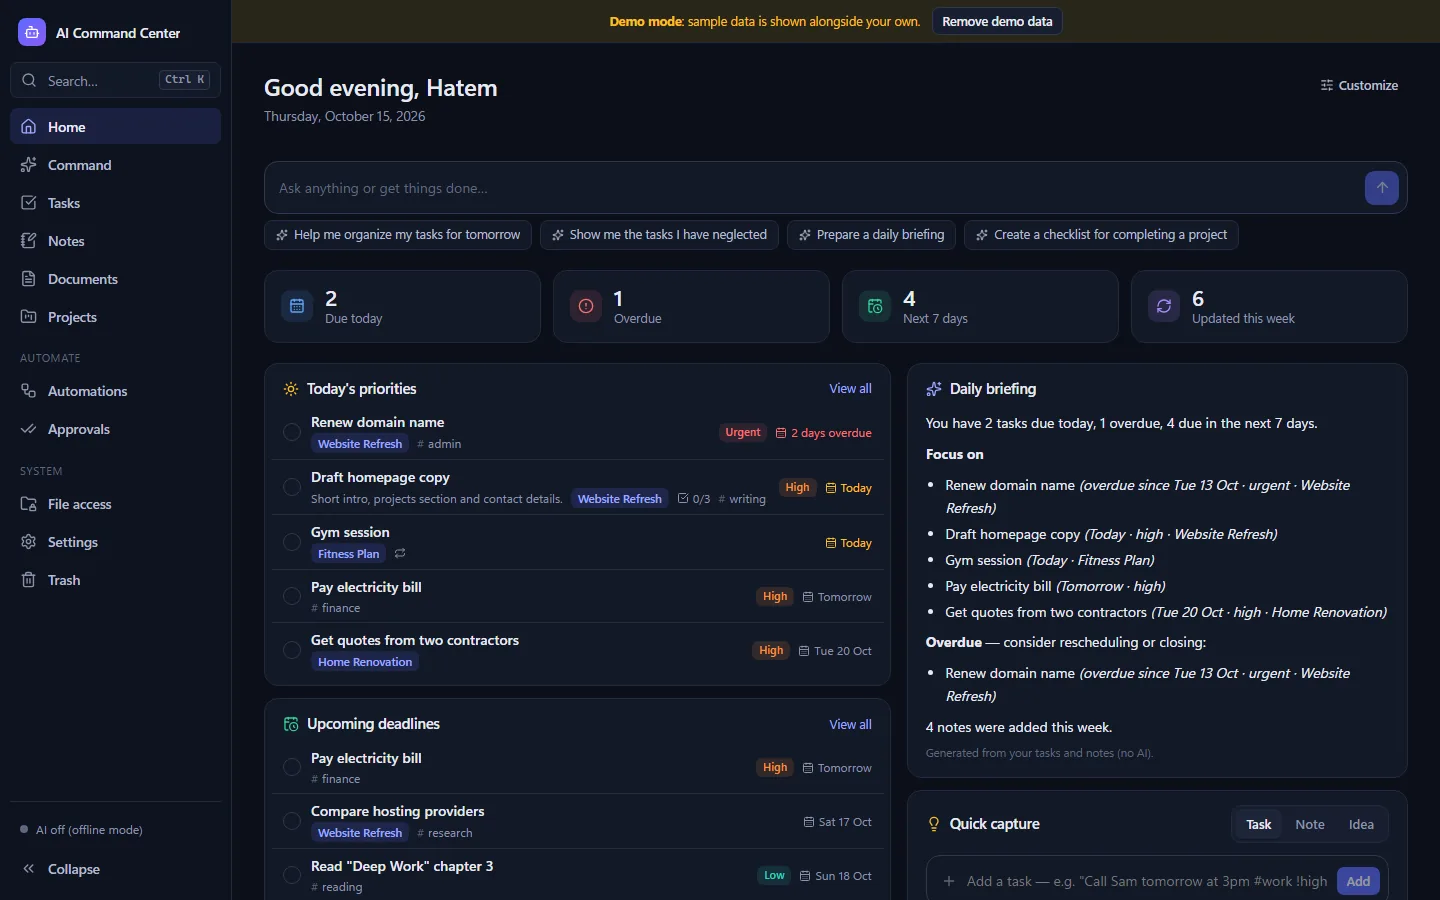
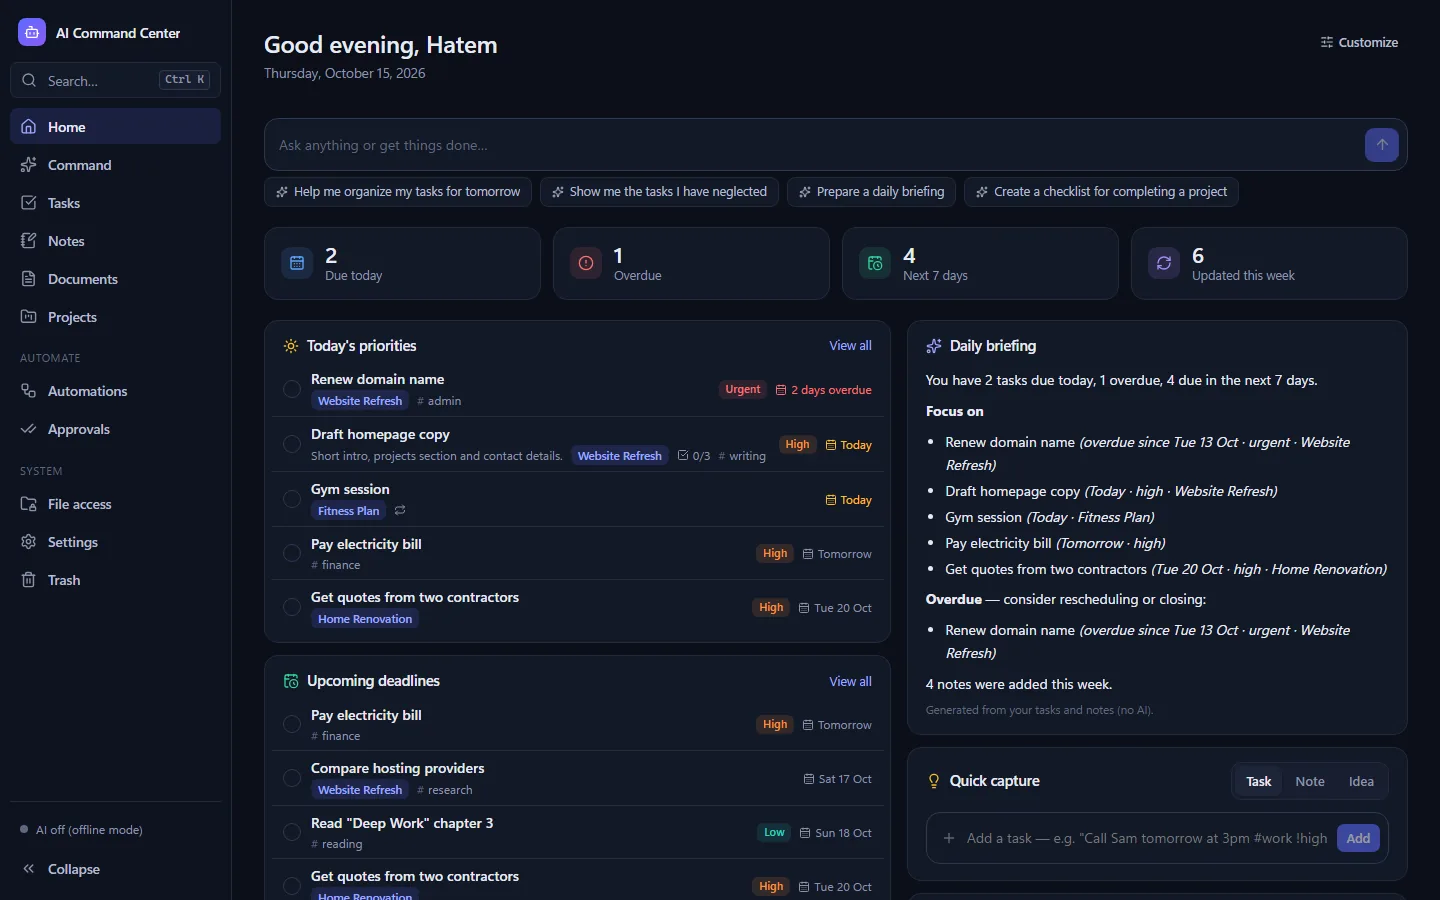
AI Command Center: clean screenshots with sample data

diff --git a/work/index.html b/work/index.html
@@ -163,12 +163,12 @@
     <article class="mc" id="command-center" aria-labelledby="aicc-title">
       <div class="mc-media">
         <figure class="browser">
-          <div class="bar"><i></i><i></i><i></i><span>Home, with demo data</span></div>
+          <div class="bar"><i></i><i></i><i></i><span>Home</span></div>
           <img src="/assets/img/aicc-home.webp" alt="AI Command Center home screen: today's priorities, a daily briefing and quick capture" width="1440" height="900" loading="lazy">
         </figure>
         <div class="mc-thumbs">
           <figure class="browser"><img src="/assets/img/aicc-project.webp" alt="A project page showing progress, next actions and blockers" width="1440" height="900" loading="lazy"></figure>
-          <figure class="browser"><img src="/assets/img/aicc-command.webp" alt="The AI assistant's chat screen with suggested requests" width="1440" height="900" loading="lazy"></figure>
+          <figure class="browser"><img src="/assets/img/aicc-tasks.webp" alt="The Tasks page with today's and overdue tasks" width="1440" height="900" loading="lazy"></figure>
         </div>
       </div>
       <div class="mc-copy">

diff --git a/src/parts/more.html b/src/parts/more.html
@@ -6,12 +6,12 @@
     <article class="mc" id="command-center" aria-labelledby="aicc-title">
       <div class="mc-media">
         <figure class="browser">
-          <div class="bar"><i></i><i></i><i></i><span>Home, with demo data</span></div>
+          <div class="bar"><i></i><i></i><i></i><span>Home</span></div>
           <img src="assets/img/aicc-home.webp" alt="AI Command Center home screen: today's priorities, a daily briefing and quick capture" width="1440" height="900" loading="lazy">
         </figure>
         <div class="mc-thumbs">
           <figure class="browser"><img src="assets/img/aicc-project.webp" alt="A project page showing progress, next actions and blockers" width="1440" height="900" loading="lazy"></figure>
-          <figure class="browser"><img src="assets/img/aicc-command.webp" alt="The AI assistant's chat screen with suggested requests" width="1440" height="900" loading="lazy"></figure>
+          <figure class="browser"><img src="assets/img/aicc-tasks.webp" alt="The Tasks page with today's and overdue tasks" width="1440" height="900" loading="lazy"></figure>
         </div>
       </div>
       <div class="mc-copy">
